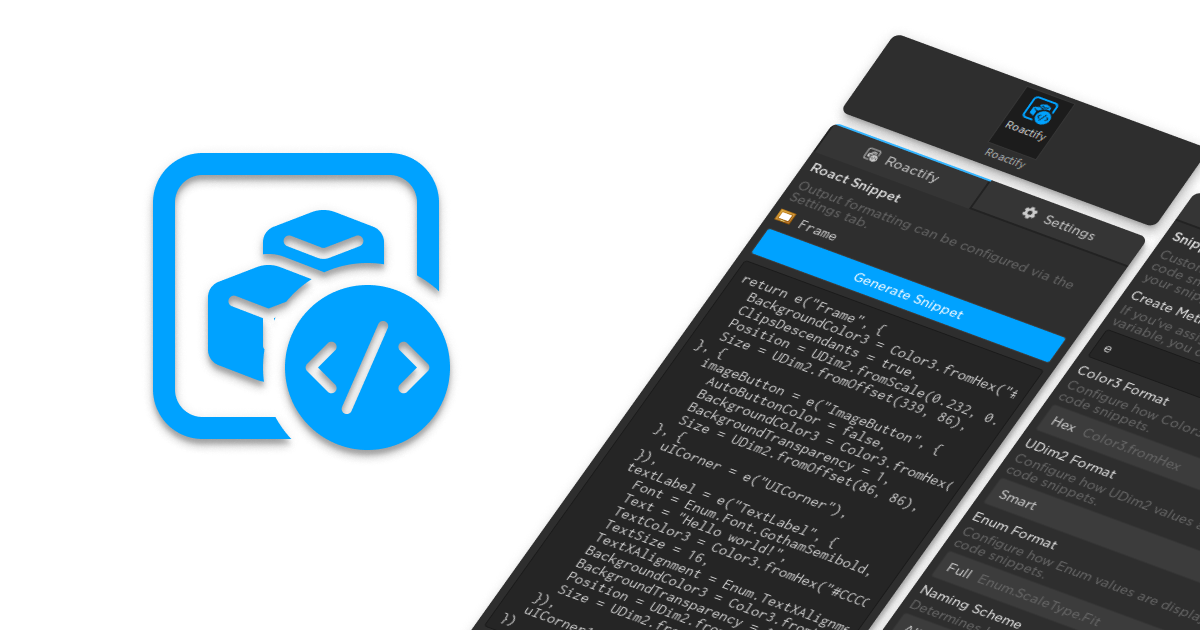
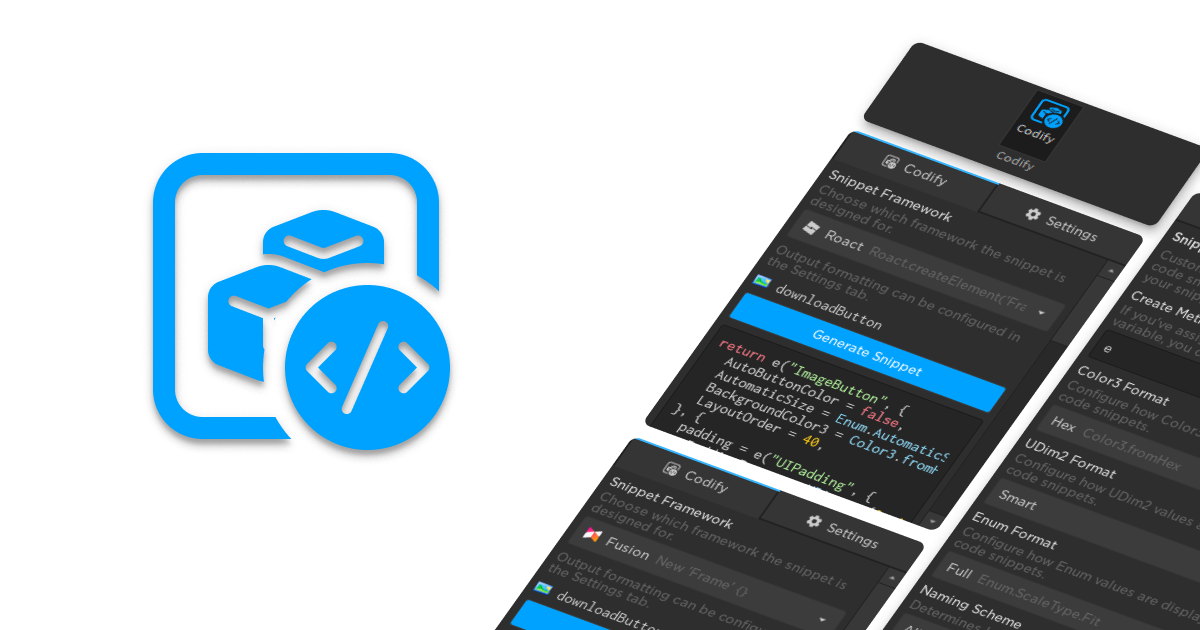
Update assets and README

diff --git a/README.md b/README.md
@@ -6,39 +6,44 @@
 
 [devhub/managing-plugins]: https://developer.roblox.com/en-us/articles/Intro-to-Plugins#finding-and-managing-plugins
 
+[roact/repo]: https://github.com/roblox/roact
+[fusion/repo]: https://github.com/elttob/fusion
+
 <!-- Images -->
 [image/cover]: assets/Cover.png
 [image/demo-gif]: assets/Demo.gif
-[image/screenshot-home]: assets/ScreenshotHome.png
-[image/screenshot-settings]: assets/ScreenshotSettings.png
+[image/plugin-screenshots]: assets/PluginScreenshots.png
 
 <div align="center">
 
 [![Cover][image/cover]][plugin/toolbox]
 
-✨ Stop writing render code and start designing your Roact components visually!
+✨ Stop writing render code and start designing your components visually!
 
-[📦 Source Code][repo/homepage] | [⏩ Install Roactify][plugin/toolbox]
+[📦 Source Code][repo/homepage] | [⏩ Install Codify *(formerly Roactify)*][plugin/toolbox]
 
 </div>
 
+Codify is a collaborative project between @boatbomber and @csqrl, which converts your pre-existing GUI objects into code.
+
+Whether you work with vanilla Instances, or use a framework like [Roact][roact/repo] or [Fusion][fusion/repo], Codify has you covered!
 # Installation
 ## Plugin Marketplace
 
-The simplest way to install Roactify is to install it from the plugin marketplace. This gives you access to the latest version of the plugin, and easy updates via the [Plugin Management][devhub/managing-plugins] window.
+The simplest way to install Codify is to install it from the plugin marketplace. This gives you access to the latest version of the plugin, and easy updates via the [Plugin Management][devhub/managing-plugins] window.
 
-- [Install Roactify &rarr;][plugin/toolbox]
+- [Install Codify &rarr;][plugin/toolbox]
 
 ## Manual Installation
 
-Roactify is an open-source plugin. New releases are automatically published to both the Roblox plugin marketplace and GitHub releases. If you'd rather install the plugin manually, download the latest binary (`.rbxm` or `.rbxmx`) from the [releases page][repo/releases], and drop it into your Studio plugins directory.
+Codify is an open-source plugin. New releases are automatically published to both the Roblox plugin marketplace and GitHub releases. If you'd rather install the plugin manually, download the latest binary (`.rbxm` or `.rbxmx`) from the [releases page][repo/releases], and drop it into your Studio plugins directory.
 
 # Overview of Permissions
 
 ## HTTP Requests
-Roactify uses HTTP requests to fetch the latest information about Roblox Instances. This is **required** to enable core plugin functionality, as this is not possible without access to API dumps.
+Codify uses HTTP requests to fetch the latest information about Roblox Instances. This is **required** to enable core plugin functionality, as this is not possible without access to API dumps.
 
-Below is a list of URLs used by Roactify *(all requests are unauthenticated)*:
+Below is a list of URLs used by Codify *(all requests are unauthenticated)*:
 
 - https://s3.amazonaws.com/setup.roblox.com/versionQTStudio
 - https://s3.amazonaws.com/setup.roblox.com/{{version-hash}}-API-Dump.json
@@ -53,22 +58,9 @@ This is necessary to the Save to Device feature only. The plugin will *temporari
 
 # Screenshots
 
-[![GIF Demoing Plugin][image/demo-gif]][image/demo-gif]
+![GIF Demoing Plugin][image/demo-gif]
 
-<table>
-<tr>
-<td>
-
-  [![Screenshot of Home Tab][image/screenshot-home]][image/screenshot-home]
-
-</td>
-<td>
-
-  [![Screenshot of Settings Tab][image/screenshot-settings]][image/screenshot-settings]
-
-</td>
-</tr>
-</table>
+![Screenshot of the Plugin][image/plugin-screenshots]
 
 ## Disclaimer
-The code Roactify produces is not 100% perfect. You should consider that the snippets produced are not optimal, but that shouldn't put you off using it!
+The code Codify produces is not 100% perfect. You should consider that the snippets produced are not optimal, but that shouldn't put you off using it!
